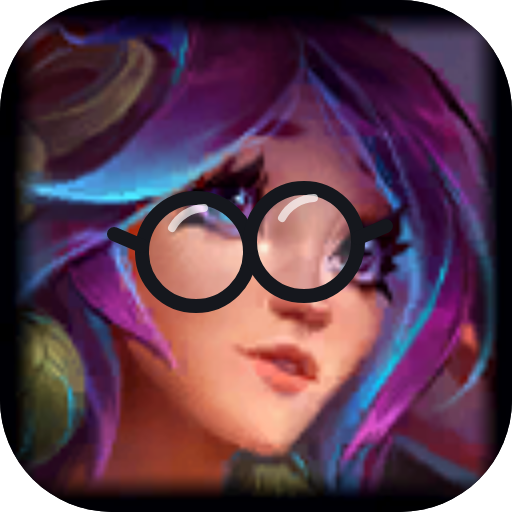
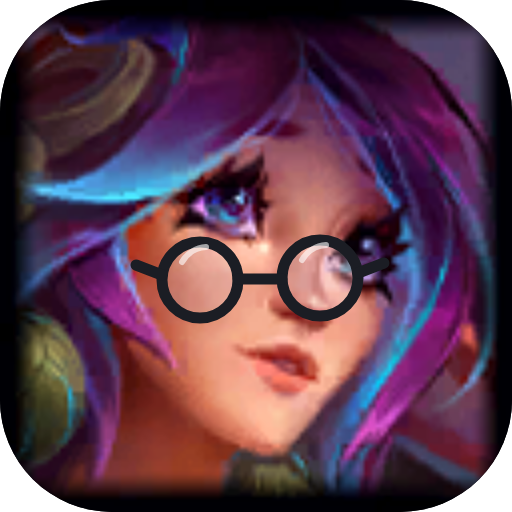
Halve live-coach latency and cost; fix the glasses; hype good plays
THE READ TOOL WAS COSTING A WHOLE MODEL TURN. The frame was written to
disk and fetched with the Read tool, so the model had to issue a tool
call, receive the image, and only then answer — two turns for one
question, plus a write and a delete.

`--input-format stream-json` takes a user message with an image content
block directly, so the picture arrives WITH the question. Measured on the
same frame: 8.5s via Read, 4.1s streamed, and cost fell from $0.0159 to
~$0.008 — the halving is the second turn disappearing.

Also taken out of the hot path: the route re-read the live client and
rebuilt the focus list on every glance. The overlay already polls
/api/live and holds the champion and the clock, so it now sends what it
knows; the LCU read remains a fallback. Focus areas are cached for a
minute — they change when a review lands, not between two glances.

Frames dropped to 1024/q0.65. Measured across 800/1024/1280 the model's
own latency varies more than the frame size does, so this is the cheap
end of a range where quality is unaffected rather than a tuned optimum.

HONEST CEILING: end-to-end is 5-16s and dominated by CLI process spawn
plus model variance, not by anything left in this code. Getting
meaningfully below that needs a transport without a process spawn — an
API key and a direct SDK call — or a realtime provider. The interval, not
the latency, is what makes this usable today.

THE GLASSES WERE CURSED. Measured off the 128px source and scaled: her
[…]

Changed region(s): [[0.1875, 0.3438, 0.7812, 0.6562]]

diff --git a/src/review/live-vision.ts b/src/review/live-vision.ts
@@ -49,10 +49,10 @@ export interface LiveObservation {
 }
 
 export interface LiveVisionInput {
-	/** Absolute path to the frame. */
-	framePath: string
-	/** Directory the CLI is allowed to read. */
-	dir: string
+	/** The frame itself, base64. Never written to disk — see the header. */
+	imageBase64: string
+	/** Defaults to image/jpeg. */
+	mediaType?: string
 	championName?: string | null
 	/** Game clock, when known, so the advice can be phase-appropriate. */
 	gameTimeSec?: number | null
@@ -82,7 +82,7 @@ const prompt = (input: LiveVisionInput): string => {
 	 * asked directly, silence is just unhelpful. The evidence rules do not move either way.
 	 */
 	if (asked !== "")
-		return `Read the image at \`${input.framePath}\`. It is a screenshot of a live League of
+		return `The image attached to this message is a screenshot of a live League of
 Legends game${input.championName ? `, played by the ${input.championName} player` : ""}. Game
 clock: ${clock}.
 
@@ -99,7 +99,7 @@ Answer it. Two short sentences at most — it will be read or spoken while they 
 - If it is a judgement call, give your actual opinion — they asked for it.
 ${input.focus && input.focus.length > 0 ? `\nThey are working on: ${input.focus.join("; ")}\n` : ""}`
 
-	return `Read the image at \`${input.framePath}\`. It is a screenshot of a live League of
+	return `The image attached to this message is a screenshot of a live League of
 Legends game${input.championName ? `, played by the ${input.championName} player` : ""}. Game
 clock: ${clock}.
 
@@ -111,19 +111,30 @@ Reply with exactly \`${NOTHING}\` unless there is something genuinely worth inte
 for. That is the expected answer. A coach who speaks every fifteen seconds becomes noise inside
 a minute, and noise gets muted.
 
-Worth speaking for: an objective about to spawn or being taken, a lane visibly overextended and
-about to die, an obvious free play on screen, a recall they should take now, a fight starting
-they are not in position for.
+**Worth speaking for — a warning:** an objective about to spawn or being taken, a lane visibly
+overextended and about to die, an obvious free play on screen, a recall they should take now, a
+fight starting they are not in position for.
 
-Not worth speaking for: anything they can already see, general advice, encouragement,
-observations about the score, or anything you said recently.
+**Worth speaking for — a genuinely sick play.** If the frame SHOWS something went well, say so:
+a multi-kill, a steal, a save, surviving what should have killed them, a fight they had no
+business winning. A coach who only ever warns is a coach you mute.
+
+Be warm and a little unhinged about it — you are Lillia, so dreams, sleep, pollen and prancing
+are yours to use. "That was CRIMINAL, they need a nap after that." "Bough down." Never force a
+pun, never reuse one, and never fake it for something ordinary: praise spent on a normal recall
+is praise that means nothing when the real moment comes. If you cannot tell it was impressive,
+stay quiet.
+
+**Not worth speaking for:** anything they can already see, general advice, vague encouragement
+with nothing behind it, observations about the score, or anything you said recently.
 
 ## Rules
 
 - **Only what is legible in this frame.** You cannot see cooldowns you cannot read, what happened
   before, or what they intend. Do not guess at any of it.
 - **One sentence, under 100 characters.** It may be spoken aloud while they are playing.
-- **Imperative and immediate.** "Back off, three missing top" — not "you might consider".
+- **Imperative and immediate** when it is a warning: "Back off, three missing top" — not "you
+  might consider". When it is praise, just be delighted; there is nothing to instruct.
 - No preamble, no markdown, no quotes. The sentence or \`${NOTHING}\`.
 ${input.focus && input.focus.length > 0 ? `\n## What they are working on\n\n${input.focus.map(f => `- ${f}`).join("\n")}\n` : ""}${
 		input.recent && input.recent.length > 0 ?
@@ -138,10 +149,13 @@ export const observeFrame = async (
 	signal?: AbortSignal
 ): Promise<LiveObservation> => {
 	const started = Date.now()
-	const bin = (process.env.FAWNSEI_CLAUDE_BIN ?? process.env.CSK_CLAUDE_BIN) ?? "claude"
+	const bin = process.env.FAWNSEI_CLAUDE_BIN ?? process.env.CSK_CLAUDE_BIN ?? "claude"
 	// Deliberately the small model: this runs every N seconds and the task is "look and mostly
 	// say nothing", which does not need the expensive one.
-	const model = (process.env.FAWNSEI_LIVE_VISION_MODEL ?? process.env.CSK_LIVE_VISION_MODEL) ?? "claude-haiku-4-5-20251001"
+	const model =
+		process.env.FAWNSEI_LIVE_VISION_MODEL ??
+		process.env.CSK_LIVE_VISION_MODEL ??
+		"claude-haiku-4-5-20251001"
 
 	return await new Promise<LiveObservation>(resolve => {
 		let proc
@@ -150,14 +164,19 @@ export const observeFrame = async (
 				bin,
 				[
 					"--print",
+					// stream-json BOTH ways: the input format is what allows an image content
+					// block, and the CLI refuses stream-json input without it (and without
+					// --verbose). No Read tool, no --add-dir, no file on disk.
+					"--input-format",
+					"stream-json",
 					"--output-format",
-					"json",
+					"stream-json",
+					"--verbose",
 					"--model",
 					model,
+					// No tools at all. The picture arrives in the message; there is nothing to fetch.
 					"--tools",
-					"Read",
-					"--add-dir",
-					input.dir,
+					"",
 					"--disable-slash-commands",
 					"--strict-mcp-config",
 					"--no-session-persistence",
@@ -176,6 +195,9 @@ export const observeFrame = async (
 		let stdout = ""
 		proc.stdout.on("data", d => (stdout += String(d)))
 		proc.stderr.on("data", () => {})
+		// The CLI can close stdin before we finish writing a large frame; that is not an error
+		// worth surfacing, and without a handler it becomes an unhandled EPIPE that kills us.
+		proc.stdin.on("error", () => {})
 		proc.on("error", err => {
 			clearTimeout(timer)
 			resolve({ ok: false, text: "", costUsd: null, durationMs: Date.now() - started, error: errText(err) })
@@ -192,30 +214,49 @@ export const observeFrame = async (
 				})
 				return
 			}
-			try {
-				const env = JSON.parse(stdout) as { result?: unknown; total_cost_usd?: unknown }
-				const raw = typeof env.result === "string" ? env.result.trim() : ""
-				// Strip the quotes and trailing period a model adds to a one-liner.
-				const cleaned = raw.replace(/^["'`]+|["'`]+$/g, "").trim()
-				const nothing = cleaned === "" || cleaned.toUpperCase().startsWith(NOTHING)
-				resolve({
-					ok: true,
-					text: nothing ? "" : cleaned,
-					costUsd: typeof env.total_cost_usd === "number" ? env.total_cost_usd : null,
-					durationMs: Date.now() - started
-				})
-			} catch (err) {
-				resolve({
-					ok: false,
-					text: "",
-					costUsd: null,
-					durationMs: Date.now() - started,
-					error: `unreadable CLI envelope: ${errText(err)}`
-				})
+
+			// stream-json emits one JSON object per line; the `result` line carries the answer.
+			let raw = ""
+			let costUsd: number | null = null
+			for (const line of stdout.split("\n")) {
+				if (line.trim() === "") continue
+				let o: { type?: string; result?: unknown; total_cost_usd?: unknown }
+				try {
+					o = JSON.parse(line)
+				} catch {
+					continue
+				}
+				if (o.type === "result") {
+					if (typeof o.result === "string") raw = o.result
+					if (typeof o.total_cost_usd === "number") costUsd = o.total_cost_usd
+				}
 			}
+
+			const cleaned = raw.trim().replace(/^["'`]+|["'`]+$/g, "").trim()
+			const nothing = cleaned === "" || cleaned.toUpperCase().startsWith(NOTHING)
+			resolve({
+				ok: true,
+				text: nothing ? "" : cleaned,
+				costUsd,
+				durationMs: Date.now() - started
+			})
 		})
 
-		proc.stdin.end(prompt(input))
+		proc.stdin.end(
+			`${JSON.stringify({
+				type: "user",
+				message: {
+					role: "user",
+					content: [
+						{
+							type: "image",
+							source: { type: "base64", media_type: input.mediaType ?? "image/jpeg", data: input.imageBase64 }
+						},
+						{ type: "text", text: prompt(input) }
+					]
+				}
+			})}\n`
+		)
 	})
 }
 

diff --git a/src/server/routes/live.ts b/src/server/routes/live.ts
@@ -22,8 +22,6 @@
  */
 
 import { Hono } from "hono"
-import { mkdir, rm, writeFile } from "node:fs/promises"
-import { join } from "node:path"
 import { liveNudges, paceReading } from "../../analysis/live-coach.ts"
 import type { LiveState } from "../../analysis/live-coach.ts"
 import { baselineFromRows, perGameMetrics } from "../../analysis/index.ts"
@@ -33,7 +31,7 @@ import { lcu } from "../../daemon/lcu.ts"
 import { getSettings, recentFeedbackItems } from "../../db/queries.ts"
 import { LiveResponse } from "../../shared/schema/api.ts"
 import type { LiveAllGameData } from "../../shared/schema/live.ts"
-import { DATA_DIR, USER_PUUID } from "../../shared/constants.ts"
+import { USER_PUUID } from "../../shared/constants.ts"
 import { observeFrame } from "../../review/live-vision.ts"
 import { fail, send } from "../respond.ts"
 
@@ -71,6 +69,20 @@ export const createLiveRoute = (): Hono => {
 			games: f.games,
 			fix: f.fixes[0] ?? ""
 		}))
+	}
+
+	/**
+	 * Focus areas change when a review lands, not between two glances a few seconds apart, and
+	 * rebuilding them means aggregating every recent feedback item. Cached for a minute so the
+	 * observe path does no SQL at all in the common case.
+	 */
+	let focusCache: { atMs: number; value: ReturnType<typeof standingFocus> } | null = null
+	const cachedFocus = (): ReturnType<typeof standingFocus> => {
+		const now = Date.now()
+		if (focusCache && now - focusCache.atMs < 60_000) return focusCache.value
+		const value = standingFocus()
+		focusCache = { atMs: now, value }
+		return value
 	}
 
 	app.get("/live", async c => {
@@ -171,6 +183,9 @@ export const createLiveRoute = (): Hono => {
 		const body = (await c.req.json().catch(() => null)) as {
 			frame?: unknown
 			recent?: unknown
+			/** Supplied by the overlay, which already polls for them. Saves an LCU round trip. */
+			championName?: unknown
+			gameTimeSec?: unknown
 			/** A spoken question. Present only when the user actually asked something. */
 			question?: unknown
 		} | null
@@ -180,41 +195,55 @@ export const createLiveRoute = (): Hono => {
 		if (b64 === "" || b64.length > 12_000_000)
 			return fail(c, 400, "frame must be a base64 image under ~12MB", "bad-frame")
 
-		const dir = join(DATA_DIR, "live-frames")
-		await mkdir(dir, { recursive: true })
-		const path = join(dir, `frame-${Date.now()}.png`)
+		/*
+		 * The frame goes straight into the model message. It is never written to disk: these are
+		 * screenshots of the user's whole screen, and the previous version's write-then-delete
+		 * was both a privacy surface and a latency cost for no benefit.
+		 */
+		/*
+		 * Context comes from the CALLER when it has it.
+		 *
+		 * This route used to re-read the live client and rebuild the focus list on every glance,
+		 * which put an LCU round trip and a pile of SQL in front of a call whose entire value is
+		 * being fast. The overlay already polls /api/live every few seconds and holds both the
+		 * champion and the clock, so it can simply say what it knows. The LCU read stays as a
+		 * fallback for callers that do not.
+		 */
+		const givenChampion = typeof body?.championName === "string" ? body.championName : null
+		const givenTime = typeof body?.gameTimeSec === "number" ? body.gameTimeSec : null
 
-		try {
-			await writeFile(path, Buffer.from(b64, "base64"))
-
-			const settings = getSettings()
-			const focus = standingFocus().map(f => f.fix).filter(f => f !== "")
-			// Best effort: the game may have ended between the capture and this call.
+		let championName = givenChampion
+		let gameTimeSec = givenTime
+		if (championName === null || gameTimeSec === null) {
 			const handle = await lcu()
 			const data = handle ? await handle.live.allGameData().catch(() => null) : null
 			const me = data ? findMe(data) : null
-
-			const result = await observeFrame({
-				framePath: path,
-				dir,
-				championName: me?.championName ?? null,
-				gameTimeSec: data?.gameData?.gameTime ?? null,
-				focus,
-				recent: Array.isArray(body?.recent) ? (body.recent as unknown[]).filter(r => typeof r === "string").slice(-4) as string[] : [],
-				question: typeof body?.question === "string" ? body.question.slice(0, 400) : null
-			})
-
-			return c.json({
-				ok: result.ok,
-				text: result.text,
-				costUsd: result.costUsd,
-				durationMs: result.durationMs,
-				...(result.error ? { error: result.error } : {})
-			})
-		} finally {
-			// Always, including on failure. See the route comment.
-			await rm(path, { force: true }).catch(() => {})
+			championName = championName ?? me?.championName ?? null
+			gameTimeSec = gameTimeSec ?? data?.gameData?.gameTime ?? null
 		}
+
+		const focus = cachedFocus().map(f => f.fix).filter(f => f !== "")
+
+		const result = await observeFrame({
+			imageBase64: b64,
+			mediaType: /^data:(image\/\w+);/.exec(frame)?.[1] ?? "image/jpeg",
+			championName,
+			gameTimeSec,
+			focus,
+			recent:
+				Array.isArray(body?.recent) ?
+					((body.recent as unknown[]).filter(r => typeof r === "string").slice(-4) as string[])
+				:	[],
+			question: typeof body?.question === "string" ? body.question.slice(0, 400) : null
+		})
+
+		return c.json({
+			ok: result.ok,
+			text: result.text,
+			costUsd: result.costUsd,
+			durationMs: result.durationMs,
+			...(result.error ? { error: result.error } : {})
+		})
 	})
 
 	return app

diff --git a/src/web/lib/screenCoach.ts b/src/web/lib/screenCoach.ts
@@ -46,9 +46,14 @@ export interface ScreenCoachState {
 
 /** JPEG at 0.7 rather than PNG: a screenshot of a game compresses to roughly a tenth the bytes,
  *  and the model is reading a scene, not inspecting pixels. Smaller upload, faster call. */
-const FRAME_QUALITY = 0.7
-/** Downscale before upload. 1280 wide is plenty to read a minimap and health bars. */
-const FRAME_WIDTH = 1280
+const FRAME_QUALITY = 0.65
+/**
+ * Downscale before upload. 1024 is still plenty to read a minimap and health bars, and it is a
+ * third fewer bytes than 1280 — which matters on a path whose whole value is being fast.
+ * Measured across 800/1024/1280 the model's own latency varies more than the size does, so this
+ * is the cheap end of a range where quality is unaffected rather than a tuned optimum.
+ */
+const FRAME_WIDTH = 1024
 
 export const useScreenCoach = () => {
 	const [state, setState] = useState<ScreenCoachState>({
@@ -71,6 +76,8 @@ export const useScreenCoach = () => {
 	const speakRef = useRef(false)
 	// Read inside the interval without re-arming it on every observation.
 	const recentRef = useRef<string[]>([])
+	/** Champion + clock from the caller's own poll, to keep the observe path off the LCU. */
+	const contextRef = useRef<{ championName?: string; gameTimeSec?: number } | null>(null)
 
 	useEffect(() => {
 		speakRef.current = state.speak
@@ -221,7 +228,13 @@ export const useScreenCoach = () => {
 				const res = await fetch("/api/live/observe", {
 					method: "POST",
 					headers: { "content-type": "application/json" },
-					body: JSON.stringify({ frame, recent: recentRef.current })
+					// The overlay already polls /api/live, so it tells the server what it knows
+					// rather than making it re-read the client. See the route.
+					body: JSON.stringify({
+						frame,
+						recent: recentRef.current,
+						...(contextRef.current ?? {})
+					})
 				})
 				const out = (await res.json()) as {
 					text?: string
@@ -276,6 +289,10 @@ export const useScreenCoach = () => {
 		ask,
 		listen,
 		setInterval: (sec: number) => setState(s => ({ ...s, intervalSec: sec })),
+		/** Called by the page each poll so a glance costs no extra client round trip. */
+		setContext: (ctx: { championName?: string; gameTimeSec?: number } | null) => {
+			contextRef.current = ctx
+		},
 		setSpeak: (on: boolean) => {
 			if (!on) window.speechSynthesis?.cancel()
 			setState(s => ({ ...s, speak: on }))
